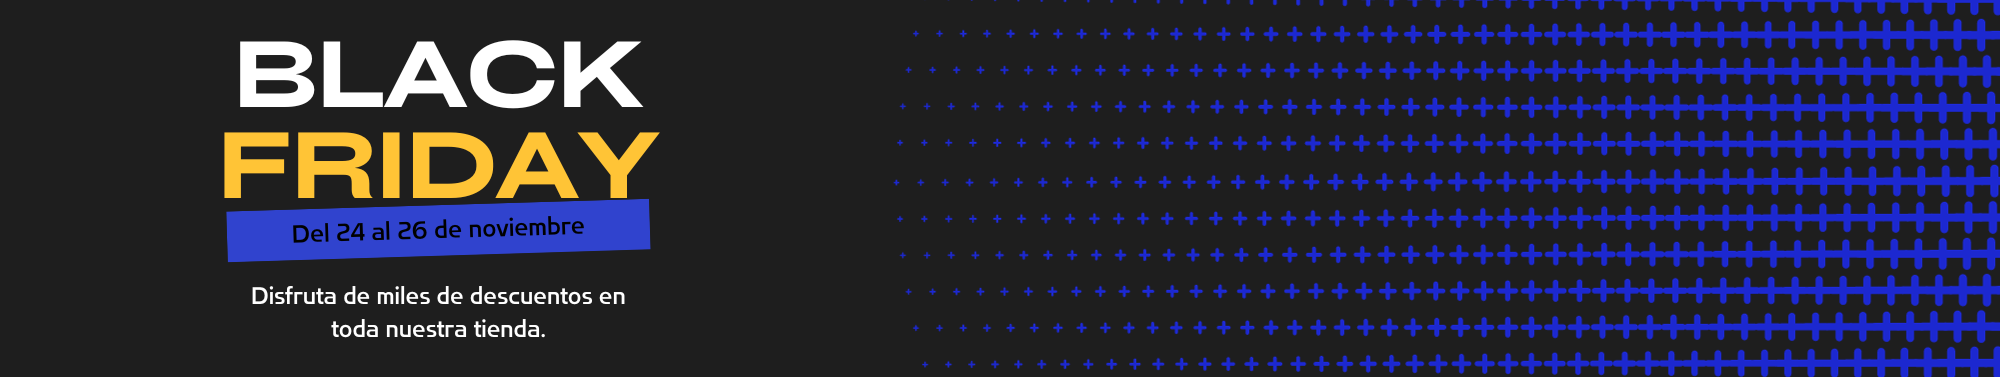
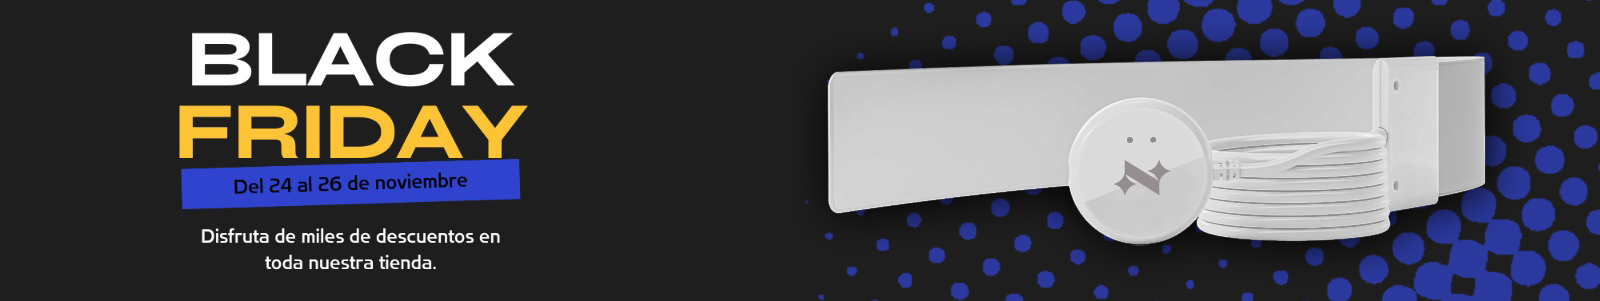
arreglos ruteo y detalle producto

diff --git a/src/app/shared/components/footer/footer.component.scss b/src/app/shared/components/footer/footer.component.scss
@@ -1,57 +1,77 @@
-@import '../../../variables.scss';
+@import "../../../variables.scss";
 
 .footer {
   background: #000;
-  height: 60px;
   display: flex;
+  flex-direction: column;
   justify-content: space-between;
   align-items: center;
+  gap: 10px;
   margin: 10px;
   border-radius: 5px;
   padding: 15px;
   box-shadow: 2px 2px 9px 0px rgba(0, 0, 0, 0.8);
-  bottom: 0;
 
   .copy {
     color: #fff;
-    font-size: .8rem;
+    font-size: 0.8rem;
     margin: 0;
+    margin-top: 25px;
   }
-}
 
-.input-group {
-  display: flex;
-  align-items: center;
+  .input-group {
+    display: flex;
+    align-items: center;
+  }
+
+  .suscribe {
+    display: flex;
+    flex-direction: column;
+    gap: 10px;
+    justify-content: center;
+    align-items: center;
+    margin-bottom: 25px;
+
+    p {
+      margin: 0;
+      color: $text-light;
+    }
+  }
+
+  img {
+    width: 20%;
+  }
 }
 
 .input {
   min-height: 40px;
-  max-width: 150px;
+  max-width: 175px;
   padding: 0 1rem;
   color: #fff;
   font-size: 15px;
   border: 1px solid $nyx-blue;
   border-radius: 6px 0 0 6px;
-  background-color: transparent;
+  background-color: white;
 }
 
 .button--submit {
   min-height: 40px;
-  padding: .5em 1em;
+  padding: 0.5em 1em;
   border: none;
   border-radius: 0 6px 6px 0;
   background-color: $nyx-blue;
   color: #fff;
   font-size: 15px;
   cursor: pointer;
-  transition: background-color .3s ease-in-out;
+  transition: background-color 0.3s ease-in-out;
 }
 
 .button--submit:hover {
-  background-color: #5e5dcd;
+  background-color: $nyx-blue-light;
 }
 
-.input:focus, .input:focus-visible {
-  border-color: #3898EC;
+.input:focus,
+.input:focus-visible {
+  border-color: $nyx-blue;
   outline: none;
 }

diff --git a/src/app/shared/shared.module.ts b/src/app/shared/shared.module.ts
@@ -15,9 +15,9 @@ import { InputPriceComponent } from './components/input-price/input-price.compon
 import { CategoryCardComponent } from '../categories/components/category-card/category-card.component';
 import { ButtonComponent } from './components/button/button.component';
 import { GridComponent } from './components/grid/grid.component';
-import { ProductsModule } from '../products/products.module';
-import { ProductsPageComponent } from './pages/products-page/products-page.component';
-import { ProductPageComponent } from './pages/product-page/product-page.component';
+import { ProductsPageComponent } from '../products/pages/products-page/products-page.component';
+import { ProductPageComponent } from '../products/pages/product-page/product-page.component';
+import { ButtonIconComponent } from './components/button-icon/button-icon.component';
 
 
 
@@ -36,7 +36,8 @@ import { ProductPageComponent } from './pages/product-page/product-page.componen
     ProductCardComponent,
     CategoryCardComponent,
     ProductsPageComponent,
-    ProductPageComponent
+    ProductPageComponent,
+    ButtonIconComponent
   ],
   imports: [
     CommonModule,

diff --git a/src/app/products/products.module.ts b/src/app/products/products.module.ts
@@ -2,9 +2,9 @@ import { NgModule } from '@angular/core';
 import { CommonModule } from '@angular/common';
 import { ProductsRoutingModule } from './products-routing.module';
 import { RouterModule } from '@angular/router';
-import { ProductPageComponent } from '../shared/pages/product-page/product-page.component';
-import { ProductsPageComponent } from '../shared/pages/products-page/products-page.component';
 import { SharedModule } from '../shared/shared.module';
+import { ProductsPageComponent } from './pages/products-page/products-page.component';
+import { ProductPageComponent } from './pages/product-page/product-page.component';
 
 @NgModule({
   declarations: [
@@ -15,6 +15,10 @@ import { SharedModule } from '../shared/shared.module';
     ProductsRoutingModule,
     RouterModule,
     SharedModule
+  ],
+  exports: [
+    ProductsPageComponent,
+    ProductPageComponent
   ]
 })
 export class ProductsModule { }

diff --git a/src/app/products/pages/product-page/product-page.component.html b/src/app/products/pages/product-page/product-page.component.html
@@ -1,0 +1,24 @@
+<div class="container">
+  <div class="detail-container">
+    <img
+      src="https://fastly.picsum.photos/id/0/5000/3333.jpg?hmac=_j6ghY5fCfSD6tvtcV74zXivkJSPIfR9B8w34XeQmvU"
+      alt=""
+    />
+    <div class="description-product">
+      <div class="info">
+        <h3 class="title">Notebook 15'</h3>
+        <p class="description">
+          Lorem ipsum dolor sit amet consectetur adipisicing elit. Ducimus
+          quaerat ipsa quidem, ut officiis molestias eos quibusdam quia
+          aspernatur quod adipisci dolorum, minima voluptas itaque repellendus
+          tempora consequuntur quo laborum.
+        </p>
+        <span class="price">$ 100,00</span>
+      </div>
+      <div class="buttons">
+        <shared-button buttonText="Comprar"></shared-button>
+        <shared-button buttonText="Agregar al carrito"></shared-button>
+      </div>
+    </div>
+  </div>
+</div>

diff --git a/src/app/shared/components/button/button.component.scss b/src/app/shared/components/button/button.component.scss
@@ -7,20 +7,20 @@
   font-weight: bold;
   letter-spacing: 3px;
   text-transform: uppercase;
-  color: #2c9caf;
+  color: $nyx-blue-light;
   transition: all 1000ms;
   font-size: 15px;
   position: relative;
   overflow: hidden;
-  outline: 2px solid #2c9caf;
+  outline: 2px solid $nyx-blue-light;
   background: transparent;
 }
 
 button:hover {
   color: #ffffff;
   transform: scale(1.1);
-  outline: 2px solid #70bdca;
-  box-shadow: 4px 5px 17px -4px #268391;
+  outline: 2px solid $nyx-blue-light;
+  box-shadow: 4px 5px 17px -4px $nyx-blue-dark;
 }
 
 button::before {
@@ -30,7 +30,7 @@ button::before {
   top: 0;
   width: 0;
   height: 100%;
-  background-color: #2c9caf;
+  background-color: $nyx-blue-light;
   transform: skewX(45deg);
   z-index: -1;
   transition: width 1000ms;

diff --git a/src/app/shared/components/footer/footer.component.html b/src/app/shared/components/footer/footer.component.html
@@ -1,11 +1,13 @@
 <footer class="footer">
+  <div class="suscribe">
+    <p>Suscríbete a nuestro newsletter</p>
+    <div class="input-group">
+      <input type="email" class="input" id="Email" name="Email" placeholder="nyx-sys@gmail.com" autocomplete="off">
+      <input class="button--submit" value="Suscríbete" type="submit">
+    </div>
+  </div>
+  <img src="assets/img/NYXSYS V1.png" alt="">
   <div>
     <p class="copy">&copy; Copyright Lucas Gonzalez - Todos los derechos reservados.</p>
-  </div>
-  <div>
-    <div class="input-group">
-      <input type="email" class="input" id="Email" name="Email" placeholder="uiverse@verse.io" autocomplete="off">
-      <input class="button--submit" value="Subscribe" type="submit">
-    </div>
   </div>
 </footer>

diff --git a/src/app/shared/components/button-icon/button-icon.component.html b/src/app/shared/components/button-icon/button-icon.component.html
@@ -1,0 +1,17 @@
+<button class="button">
+  <svg
+    viewBox="0 0 16 16"
+    class="bi bi-cart-check"
+    height="24"
+    width="24"
+    xmlns="http://www.w3.org/2000/svg"
+    fill="#fff"
+  >
+    <path
+      d="M11.354 6.354a.5.5 0 0 0-.708-.708L8 8.293 6.854 7.146a.5.5 0 1 0-.708.708l1.5 1.5a.5.5 0 0 0 .708 0l3-3z"
+    ></path>
+    <path
+      d="M.5 1a.5.5 0 0 0 0 1h1.11l.401 1.607 1.498 7.985A.5.5 0 0 0 4 12h1a2 2 0 1 0 0 4 2 2 0 0 0 0-4h7a2 2 0 1 0 0 4 2 2 0 0 0 0-4h1a.5.5 0 0 0 .491-.408l1.5-8A.5.5 0 0 0 14.5 3H2.89l-.405-1.621A.5.5 0 0 0 2 1H.5zm3.915 10L3.102 4h10.796l-1.313 7h-8.17zM6 14a1 1 0 1 1-2 0 1 1 0 0 1 2 0zm7 0a1 1 0 1 1-2 0 1 1 0 0 1 2 0z"
+    ></path>
+  </svg>
+</button>

diff --git a/src/app/products/pages/product-page/product-page.component.scss b/src/app/products/pages/product-page/product-page.component.scss
@@ -1,0 +1,36 @@
+.detail-container {
+  width: 100%;
+  display: flex;
+  justify-content: space-between;
+
+  img {
+    width: 50%;
+    border-radius: 8px;
+  }
+
+  .description-product {
+    width: 50%;
+    padding: 0 20px;
+    display: flex;
+    flex-direction: column;
+    justify-content: space-between;
+
+    .info {
+      .price {
+        width: 100%;
+        display: block;
+        text-align: end;
+        font-size: 24px;
+        font-weight: bold;
+      }
+    }
+
+    .buttons {
+      display: flex;
+      justify-content: flex-end;
+      align-items: flex-end;
+      flex-direction: column;
+      gap: 15px;
+    }
+  }
+}

diff --git a/src/app/shared/pages/home-page/home-page.component.scss b/src/app/shared/pages/home-page/home-page.component.scss
@@ -1,32 +1,8 @@
 .banner-container {
-  position: relative;
-
   .banner {
     cursor: pointer;
     width: 100%;
     margin-bottom: 16px;
-  }
-
-  .float {
-    width: 45%;
-    position: absolute;
-    top: 20%;
-    right: 5%;
-    filter: drop-shadow(10px 10px 15px rgba(0, 0, 0, 1));
-    animation: floatAnimation 3s infinite;
-    cursor: pointer;
-  }
-
-  @keyframes floatAnimation {
-    0% {
-      transform: translateY(0);
-    }
-    50% {
-      transform: translateY(-20px);
-    }
-    100% {
-      transform: translateY(0);
-    }
   }
 }
 

diff --git a/src/app/products/products-routing.module.ts b/src/app/products/products-routing.module.ts
@@ -1,7 +1,7 @@
 import { NgModule } from '@angular/core';
 import { Routes, RouterModule } from '@angular/router';
-import { ProductsPageComponent } from '../shared/pages/products-page/products-page.component';
-import { ProductPageComponent } from '../shared/pages/product-page/product-page.component';
+import { ProductsPageComponent } from './pages/products-page/products-page.component';
+import { ProductPageComponent } from './pages/product-page/product-page.component';
 
 const routes: Routes = [
   {

diff --git a/src/app/shared/components/button-icon/button-icon.component.scss b/src/app/shared/components/button-icon/button-icon.component.scss
@@ -1,0 +1,28 @@
+.button {
+  display: flex;
+  justify-content: center;
+  align-items: center;
+  padding: 10px 15px;
+  width: 3rem;
+  height: 3rem;
+  gap: 15px;
+  background-color: white;
+  outline-offset: -3px;
+  border-radius: 50%;
+  border: none;
+  cursor: pointer;
+  transition: 400ms;
+}
+
+.button svg path {
+  transition: 400ms;
+  fill: #181717
+}
+
+.button:hover {
+  background-color: #181717;
+}
+
+.button:hover svg path {
+  fill: white;
+}

diff --git a/src/app/shared/components/navbar/navbar.component.html b/src/app/shared/components/navbar/navbar.component.html
@@ -1,5 +1,8 @@
 <nav class="navbar">
-  <img routerLink="home" src="assets/img/NYXSYS_BLACK.png" alt="Logo nyxsys">
+  <img routerLink="home" src="assets/img/NYXSYS_BLACK.png" alt="Logo nyxsys" />
   <shared-input-search></shared-input-search>
-  <a routerLink="products"  class="menu__link">Productos</a>
+  <div class="links">
+    <a routerLink="products" class="menu__link">Productos</a>
+    <shared-button-icon></shared-button-icon>
+  </div>
 </nav>
